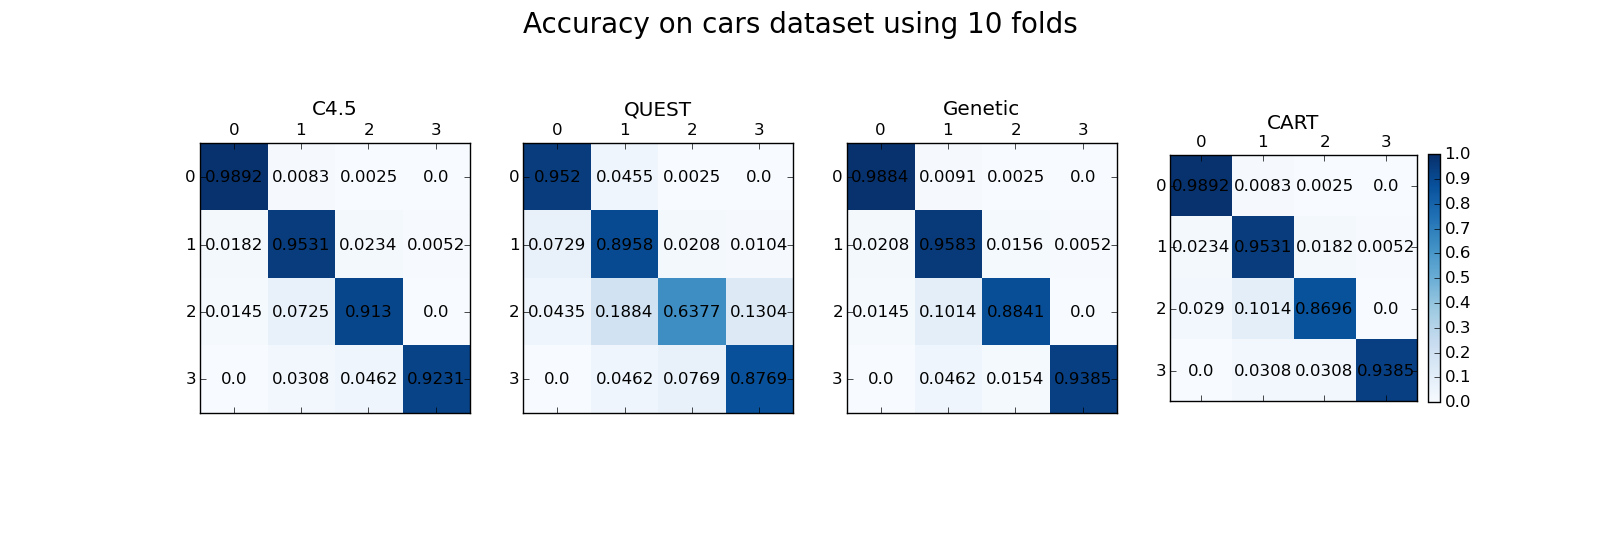
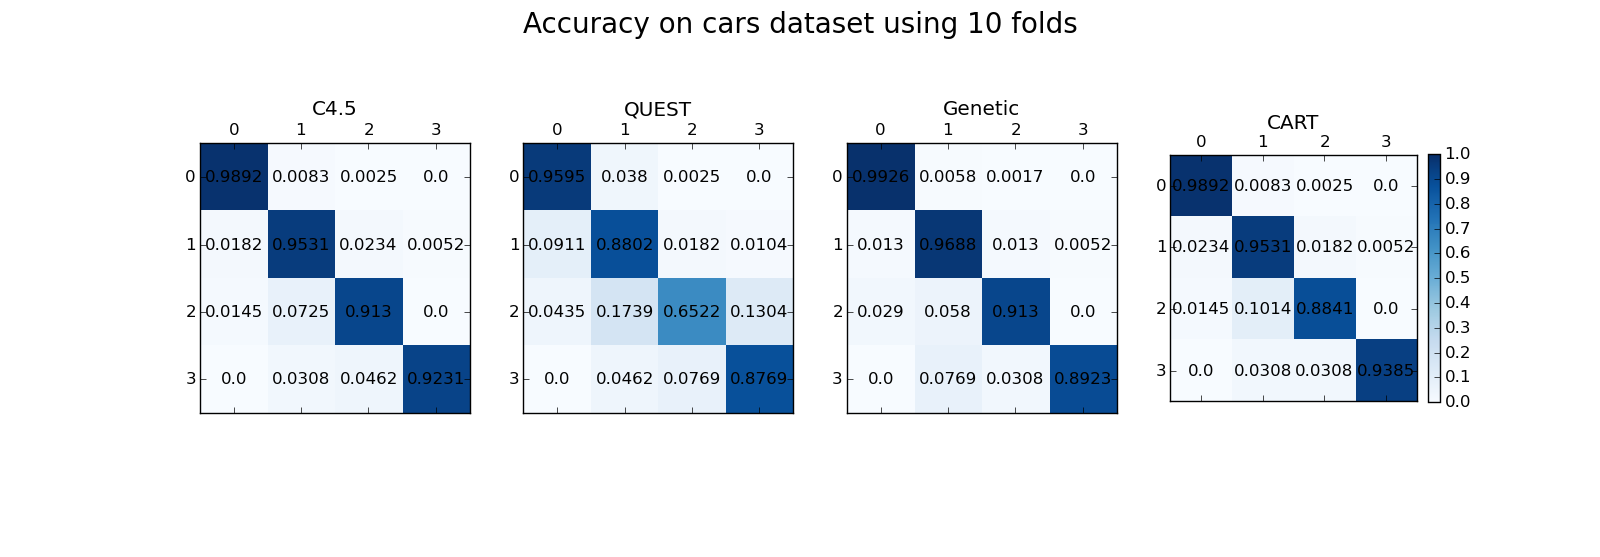
oei

diff --git a/scripts/genetic_cars.py b/scripts/genetic_cars.py
@@ -17,7 +17,7 @@ from constructors.treemerger import DecisionTreeMerger
 from objects.featuredescriptors import DISCRETE, CONTINUOUS
 
 SEED = 1337
-N_FOLDS = 5
+N_FOLDS = 10
 
 np.random.seed(SEED)    # 84846513
 columns = ['buying', 'maint', 'doors', 'persons', 'lug_boot', 'safety', 'class']
@@ -97,9 +97,10 @@ for train_index, test_index in skf:
 
 
     merger = DecisionTreeMerger()
+    #important params: max_samples, val_fraction and num_boosts
     best_tree = merger.genetic_algorithm(train_df, 'cat', tree_constructors, seed=SEED, num_iterations=5,
-                                         num_mutations=3, population_size=6, max_samples=2, val_fraction=0.25,
-                                         num_boosts=3)
+                                         num_mutations=3, population_size=6, max_samples=2, val_fraction=0.15,
+                                         num_boosts=2)
     #best_tree.visualise(os.path.join(os.path.join('..', 'data'), 'best_tree'))
     predicted_labels = best_tree.evaluate_multiple(test_features_df)
     tree_confusion_matrices["Genetic"].append(best_tree.plot_confusion_matrix(test_labels_df['cat'].values.astype(str),
